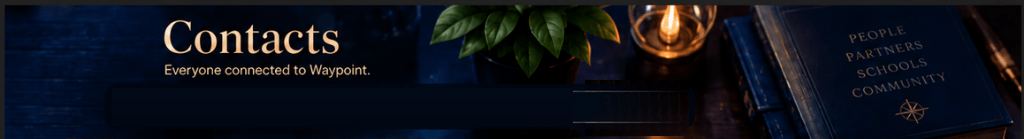
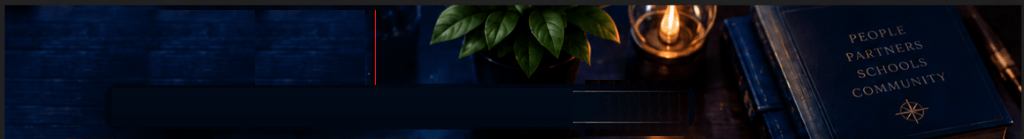
fix(contacts): remove blurry rasterized title from background and replace with razor-sharp gold vector typography (PG-002)

Changed region(s): [[0.1562, 0.0576, 0.375, 0.6331]]

diff --git a/client/src/pages/Contacts.tsx b/client/src/pages/Contacts.tsx
@@ -185,6 +185,16 @@ export default function Contacts() {
             className="w-full relative aspect-[1024/139] max-w-[1440px] mx-auto bg-no-repeat bg-[length:100%_100%] select-none"
             style={{ backgroundImage: "url('/decor/contacts-header-bg.png')" }}
           >
+            {/* Crisp Gold Typography for Contacts & Subtitle (Sharp on any resolution) */}
+            <div className="absolute left-[14%] lg:left-[15%] top-[7%] flex flex-col justify-start z-10 pointer-events-none select-none">
+              <h1 className="font-serif text-[26px] md:text-[30px] lg:text-[34px] xl:text-[38px] font-bold tracking-wide leading-none bg-gradient-to-b from-[#FFF2D9] via-[#F3D193] to-[#C79641] bg-clip-text text-transparent drop-shadow-[0_2px_4px_rgba(0,0,0,0.95)]">
+                Contacts
+              </h1>
+              <p className="font-serif text-[11.5px] md:text-[13px] lg:text-[14px] xl:text-[15px] font-medium text-[#E8D1A7] mt-1 lg:mt-1.5 leading-none tracking-normal drop-shadow-[0_1px_3px_rgba(0,0,0,0.9)]">
+                Everyone connected to Waypoint.
+              </p>
+            </div>
+
             {/* Search Bar + Nice Gold Add Contact Button directly after search bar */}
             <div className="absolute left-[10.25%] top-[60.4%] right-[30.5%] h-[31.65%] flex items-center gap-2.5 z-20">
               <div className="relative flex-1 h-full flex items-center min-w-0">
@@ -229,10 +239,10 @@ export default function Contacts() {
         >
           <div className="relative z-10 flex flex-col gap-3">
             <div>
-              <h1 className="font-serif text-2xl font-bold text-[#F5DCB0] drop-shadow-[0_2px_4px_rgba(0,0,0,0.9)]">
+              <h1 className="font-serif text-2xl font-bold tracking-wide bg-gradient-to-b from-[#FFF2D9] via-[#F3D193] to-[#C79641] bg-clip-text text-transparent drop-shadow-[0_2px_4px_rgba(0,0,0,0.95)]">
                 Contacts
               </h1>
-              <p className="font-serif text-xs text-[#D8B478] drop-shadow-[0_1px_2px_rgba(0,0,0,0.9)] mt-0.5">
+              <p className="font-serif text-xs font-medium text-[#E8D1A7] drop-shadow-[0_1px_2px_rgba(0,0,0,0.9)] mt-0.5">
                 Everyone connected to Waypoint.
               </p>
             </div>
